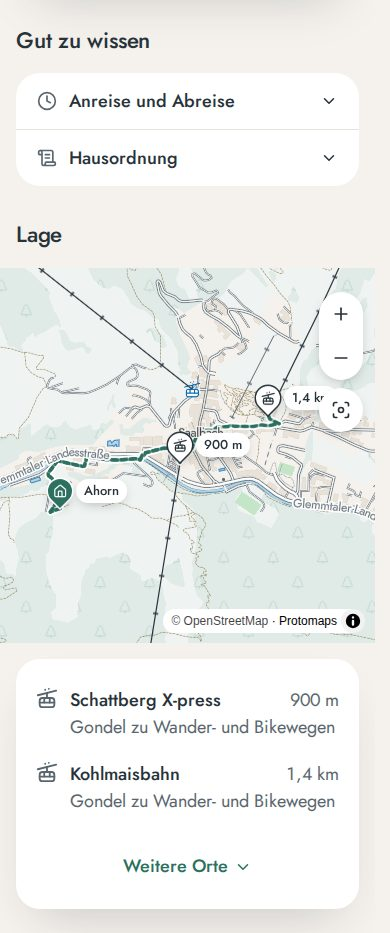
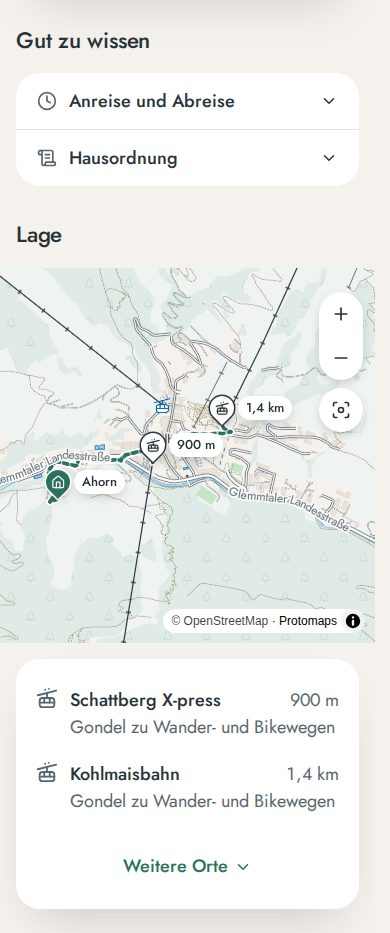
Keep a distance's label clear of the map's controls in the first view
On a phone the fit left 96 px on the right, less than the controls and a label beside a pin take:
Ahorn's "1.4 km" lay under the reset button at 320 and 390 px, on its page and on the home page.

diff --git a/e2e/map.spec.ts b/e2e/map.spec.ts
@@ -709,6 +709,36 @@ test("an apartment's page shows its map with it alone, chosen for good", async (
   expect(results.violations.map((v) => v.id)).toEqual([]);
 });
 
+for (const width of [320, 390])
+  test(`at ${width} px an apartment's map shows its pins and labels clear of the controls`, async ({
+    page,
+  }) => {
+    await page.setViewportSize({ width, height: 844 });
+    await openMap(page, '/en/apartments/ahorn');
+    const hidden = await page.evaluate(() => {
+      const box = (element: Element) => element.getBoundingClientRect();
+      const frame = box(document.querySelector('.map-frame')!);
+      const controls = [...document.querySelectorAll('.map-zoom .map-pill')].map(box);
+      return [...document.querySelectorAll('.map-label, .map-pin')]
+        .filter((element) => {
+          const b = box(element);
+          const out =
+            b.left < frame.left ||
+            b.right > frame.right ||
+            b.top < frame.top ||
+            b.bottom > frame.bottom;
+          return (
+            out ||
+            controls.some(
+              (c) => b.left < c.right && b.right > c.left && b.top < c.bottom && b.bottom > c.top,
+            )
+          );
+        })
+        .map((element) => element.textContent!.trim() || element.getAttribute('aria-label'));
+    });
+    expect(hidden).toEqual([]);
+  });
+
 test("an apartment's address leads to its map, which then loads", async ({ page }) => {
   const asked: string[] = [];
   page.on('request', (request) => asked.push(request.url()));

diff --git a/src/app/location-map.ts b/src/app/location-map.ts
@@ -1082,7 +1082,8 @@ export class LocationMap {
         const view = {
           padding: {
             top: 64,
-            right: 96,
+            // Room for the controls and a distance's label beside a pin under them.
+            right: 144,
             bottom: 48,
             left: over ? panel.right - frame.left + 48 : 48,
           },
